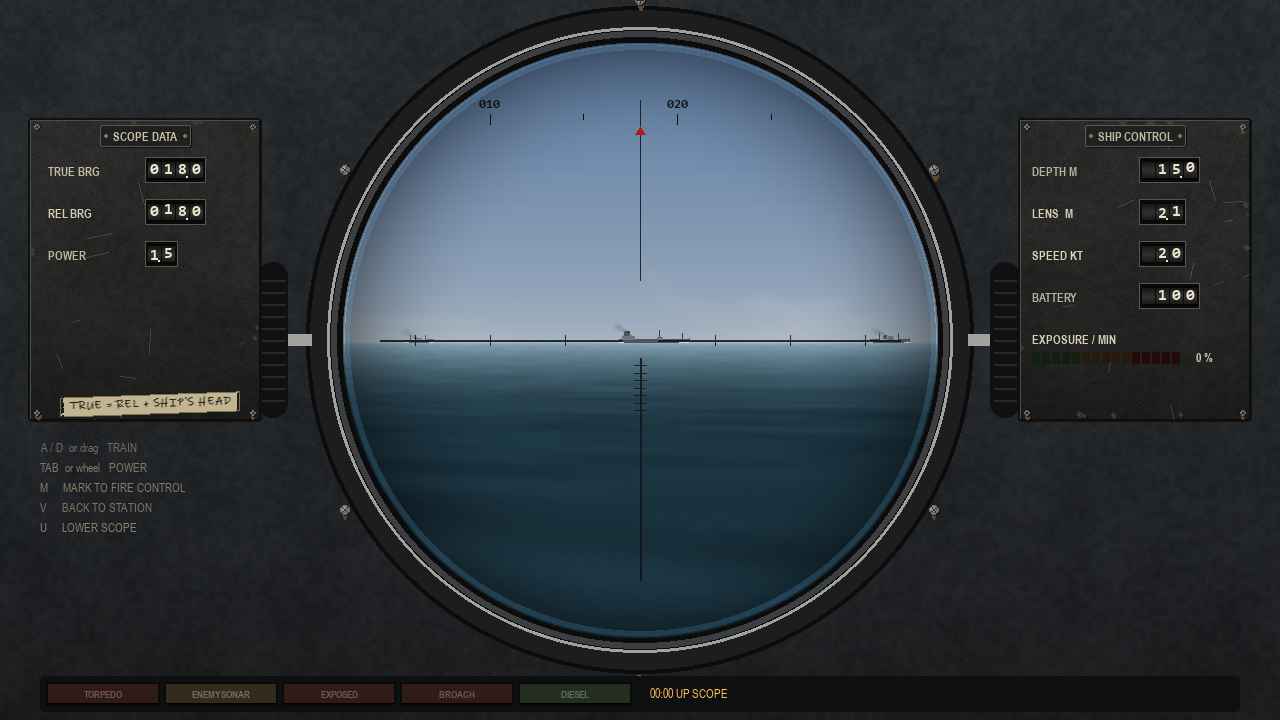
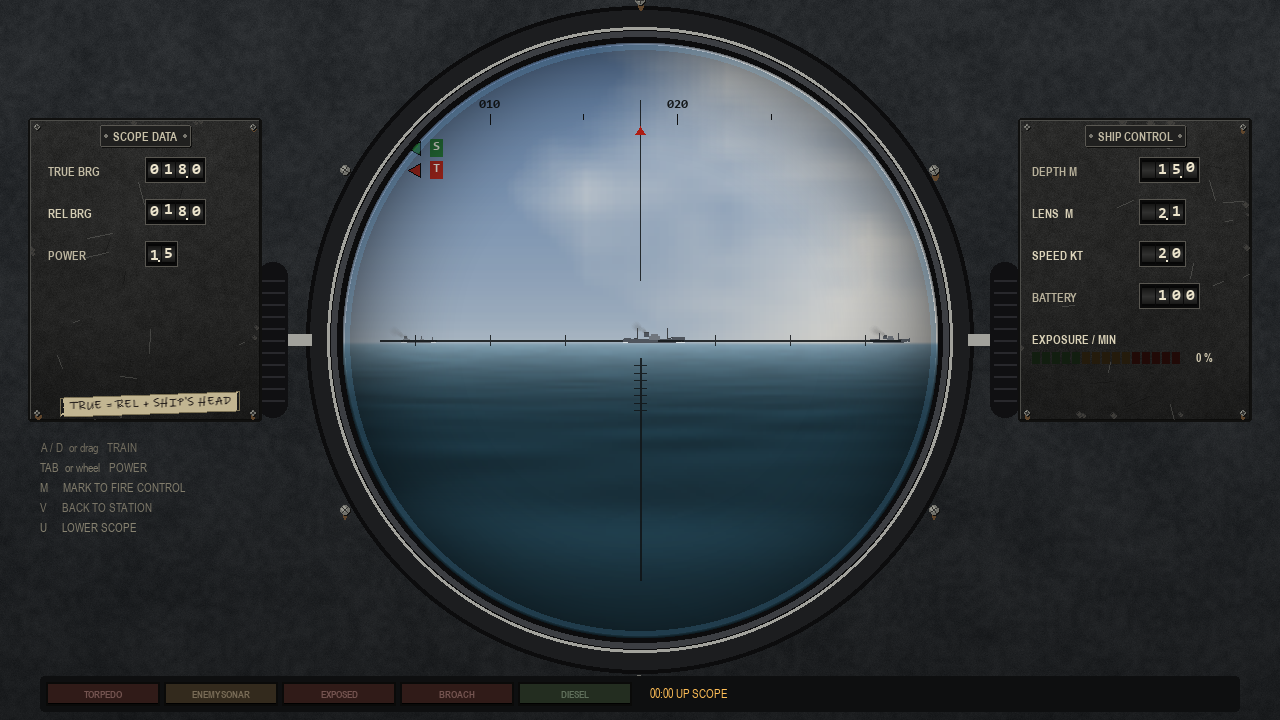
chore: release 0.2.2
README and screenshots for true-stabilised bearings, LOCK and track, the
waterfall time scale and the geometry core; the tabletop replay plan
(docs/plans/tabletop-replay.md) and issue draft 22 rewritten to match; draft
18 closed by the waterfall time scale. The SIG strength bar moves under the
text so the new < / > guide can't overlap it.

Changed region(s): [[0.4062, 0.0611, 0.75, 0.4889], [0.4688, 0.4583, 0.5312, 0.4889], [0.3125, 0.1833, 0.3438, 0.2444]]

diff --git a/docs/shots.py b/docs/shots.py
@@ -80,7 +80,8 @@ def hero():
     run(con, 10)
     merchants = [t for t in con.world.targets if t.kind == "MERCHANT"]
     target = min(merchants, key=con.world.player.range_to)
-    run(con, 70, track=target)
+    con.waterfall.row_interval = 3.0  # F8's slow scale: ten minutes of history shows the bearing drift
+    run(con, 600, track=target)
     con.mark()
     con.ping()
     run(con, 14, track=target)
@@ -90,6 +91,8 @@ def hero():
     con.tdc.set("CRS", target.heading)
     con.tdc.set("SPR", 4.0)
     con.fire()
+    if con.wire_sel is None:  # a long shot asks for a second press
+        con.fire()
     con.wire_sel.wire_aim = (target.x, target.y)
     run(con, 40, st, track=target)
     save("station")

diff --git a/workstation.py b/workstation.py
@@ -540,7 +540,7 @@ class Workstation:
         for i, (k, v, color) in enumerate(rows):
             crt.text(s, k, (hx, hy + i * 19), DIM, small=True)
             crt.text(s, v, (hx + 52, hy + i * 19 - 1), color)
-        crt.rect(s, (hx + 104, hy + 24, int(min(con.signal, 1.0) * 64), 5))
+        crt.rect(s, (hx + 52, hy + 35, int(min(con.signal, 1.0) * 96), 2))  # signal strength, under SIG
 
         text, left = con.banner
         if left > 0 and int(left * 4) % 2 == 0:  # cadet: clear visual ping warning

diff --git a/version.py b/version.py
@@ -1,1 +1,1 @@
-__version__ = "0.2.1"
+__version__ = "0.2.2"

diff --git a/docs/plans/tabletop-replay.md b/docs/plans/tabletop-replay.md
@@ -1,0 +1,146 @@
+# Plan: 2.5D tabletop replay
+
+After every patrol the player can open a **plotting-table replay**: the whole engagement in true 3D, seen at an
+angle across a wardroom chart table, with the ships as painted models on the paper, the submarines hanging
+below on depth stalks, and the thermocline as a smoked-glass sheet. It shows the truth they couldn't see while
+playing.
+
+## Decisions (from the Q&A)
+
+| Question | Decision |
+|---|---|
+| Style | **Plotting table**: paper chart, wooden rails, painted models, a smoked-glass layer. In keeping with the vintage station. |
+| Camera | **Free orbit** (drag), zoom (wheel), pan (right-drag), plus one-key presets: plan, side (depth profile), oblique, follow own boat |
+| Layers | **Truth in 3D**: every hull's true track with depth stalks, torpedo runs and wire paths, charge patterns sinking and bursting, noisemakers, sinkings. ("Your picture vs truth", detection lines and envelopes are left for later.) |
+| Where | **Every patrol** (campaign, endless, training), recorded and saved. Opened from the debrief, the game-over screen and the career log. The last 10 are kept on disk. |
+
+## What it rests on
+
+The geometry core (`geometry.py`) and its cross-check suite (`test_geometry.py`) already guarantee that the world
+state is consistent in 3D. The recorder stores **world truth** (`sim.py` state), never operator estimates, so the
+replay is exactly as accurate as the simulation.
+
+## Architecture
+
+```mermaid
+flowchart LR
+    W["WorldSimulation<br/>(truth)"] -- every 1 s of sim time --> R["replay.Recorder<br/>tracks + events"]
+    R -- patrol ends --> F[("~/.silent_solution/replays/<br/>YYYYMMDD-HHMM-mode.json.gz<br/>(last 10)")]
+    F --> L["replay.load()"] --> V["graphics/tabletop.py<br/>TabletopRenderer"]
+    V --> P["REPLAY page<br/>camera · timeline · labels"]
+    D["Debrief / game over / career log"] -- "[A] TABLETOP" --> P
+```
+
+### 1. Recorder (`replay.py`, world side, read-only)
+- Every body gets a stable integer `uid` when it enters the world (`WorldSimulation` hands them out), so tracks
+  survive list removal and reordering. `id()` is not stable across a save and load.
+- Every **1.0 s of sim time** (a tuning value), sample each live body: `t, uid, x, y, z, heading, speed`. Torpedoes
+  also record `wired`, `wire_aim` and `state`.
+- On first sight, record each body's **static description**: `kind`, class (merchant / tanker / escort / sub /
+  own / torpedo / decoy / charge), `hostile`, `tube`, name (once ship names exist), spawn time.
+- **Events**, stamped with sim time and the bodies involved: launch, hit, sinking (`sunk_at`), charge pattern
+  dropped, charge detonation (position and depth), noisemaker dropped, wire cut, own boat damaged, own boat lost,
+  wave start and clear. These give the timeline its ticks.
+- **Hooks:** `Console.update` calls `recorder.sample(world)` after `world.step`, and the recorder also reads
+  `frame_events`. Recording never changes the world, and a test enforces that.
+- **Budget:** a 60-minute patrol with about 25 bodies is roughly 90k samples. Positions rounded to 0.1 m and
+  headings to 0.1° come to about 1.5 MB as gzipped JSON. Long endless runs are capped by thinning samples older
+  than 30 min to 4 s.
+
+### 2. File format and storage
+- `~/.silent_solution/replays/<stamp>-<mode>.json.gz`:
+  - `version`, `meta` (mode, patrol name, result, GRT, duration, seed, game version, layer depth, sea state over time)
+  - `bodies` (static descriptions)
+  - `tracks` (per uid: column arrays `t, x, y, z, h, v`)
+  - `events`
+- Only the 10 newest are kept. The career log entry stores the replay's filename, so the log links to it.
+- Corrupt or old-version files are listed but greyed out with "can't play"; the game never crashes on them.
+
+### 3. Tabletop renderer (`graphics/tabletop.py`)
+- **Projection:** a perspective camera orbiting a look-at point.
+  - Parameters: yaw, pitch (10–90°), distance and a field of view.
+  - World to camera to screen is computed with NumPy for all vertices at once, ordered back to front with the
+    painter's algorithm (no z-buffer needed for models this simple).
+- **Depth exaggeration:** the sea is about 10 km across and the action is 0–300 m deep, so true scale makes depth
+  invisible. Vertical scale defaults to ×10, adjustable (×1 to ×25), and labelled on the depth scale so it's
+  never misleading.
+- **The table:**
+  - Wooden rails around the chart area. Chart paper with a 1 nm grid, a compass rose and range rings around own
+    boat's position at the selected time.
+  - The surface is the paper plane, z = 0.
+  - The thermocline is a translucent smoked-glass sheet at the patrol's layer depth (exaggerated), with a depth
+    scale (0 / 100 / 200 / 300 m) on the rail.
+- **Models:** low-poly extruded prisms by class, painted in the art kit's palette:
+  - merchant (grey hull, buff upperworks), tanker (long, low, aft bridge), escort (dark grey, raked)
+  - own boat (blue-grey) and enemy sub (red-brown), both cigar hulls with a sail
+  - torpedo (brass dart), charge (black drum), noisemaker (white puff)
+
+  Submerged models get a **depth stalk**: a thin line from the paper straight down, with a shadow dot on the paper.
+- **Tracks:** the true track of every body as a fading polyline (the last N minutes, or the whole patrol). Submerged
+  tracks are drawn at depth and their shadows on the paper. Torpedo runs are dotted at run depth, and wire paths are
+  a thin line back to the launch point while wired.
+- **Effects:**
+  - charge patterns sink as falling drums, with a burst ring at detonation depth
+  - sinkings tilt and settle the model below the paper over `WRECK_TIME`
+  - hits flash a ring on the paper
+- **Hover labels:** class, name, depth, speed, course and AI state at that moment, drawn as a tape label in the
+  station's style.
+
+### 4. REPLAY page (`main.py` state + `workstation.py` drawing)
+- Full screen, framed by the station's bezel with a brass placard "AFTER-ACTION PLOT".
+- **Camera:**
+
+  | Input | Action |
+  |---|---|
+  | drag | orbit |
+  | wheel | zoom |
+  | right-drag | pan |
+  | <kbd>1</kbd> | plan (top-down, north up) |
+  | <kbd>2</kbd> | side (depth profile along the own boat's track) |
+  | <kbd>3</kbd> | oblique |
+  | <kbd>4</kbd> | follow own boat |
+  | <kbd>0</kbd> | reset |
+  | <kbd>[</kbd> <kbd>]</kbd> | depth exaggeration |
+
+- **Time:**
+
+  | Input | Action |
+  |---|---|
+  | <kbd>Space</kbd> | play / pause |
+  | <kbd>←</kbd> <kbd>→</kbd> | step 10 s |
+  | <kbd>Shift</kbd>+<kbd>←</kbd> <kbd>→</kbd> | jump to the previous / next event |
+  | <kbd>+</kbd> <kbd>−</kbd> | speed (1× / 4× / 16× / 60×) |
+  | click or drag the timeline | scrub |
+
+  The timeline shows event ticks with icons: launch, hit, sinking, pattern, damage.
+- Playback interpolates linearly between samples (headings by shortest arc), so motion is smooth at any speed.
+- **Entry points:** **[A] TABLETOP** on the debrief and endless game-over screens, a replay icon on each career log
+  line, and at the end of training. <kbd>Esc</kbd> returns to where it was opened from.
+
+## Phases (each a `feature/*` branch, with tests and screenshots)
+
+1. **Recorder and storage:** uids, sampling, events, gzip save/load, retention, career-log link.
+   *Tests:* a round trip reproduces positions within rounding; the recorder doesn't change the world (world hash
+   with and without it); thinning; corrupt files are handled.
+2. **Projection and table:** camera maths and presets, chart, rails, grid, layer sheet, depth scale.
+   *Tests:* plan view maps north to up and east to right; side view maps depth downward at the chosen exaggeration;
+   orbit keeps the look-at point centred.
+3. **Models, tracks and effects:** class models, stalks and shadows, tracks, torpedo and wire paths, charges,
+   sinkings.
+   *Tests:* a headless render of each preset with no exceptions; frame time under 16 ms with 30 bodies.
+4. **REPLAY page and timeline:** controls, scrubbing, event jumps, hover labels, entry points.
+   *Tests:* scripted UI drive (the same approach as the main-loop smoke test).
+5. **Polish:**
+   - README gallery shot and GIF
+   - a training mention
+   - a performance pass
+
+## Left for later (chosen against for now)
+
+- **Your picture against the truth:** a TDC ghost, sonar bearing lines, marks and echo fixes.
+- **Who detected whom:** ping rings, held and spotted lines, first-detection markers.
+- **Sound and sight envelopes:** lookout circles, sonar reach, the layer's shadow.
+
+The recorder already captures enough to add these later, except the operator layers, which would need the
+console's TDC, dial and marks recorded alongside. Leaving room in the file format for an `operator` section costs
+nothing now.

diff --git a/README.md b/README.md
@@ -12,7 +12,7 @@ but while the mast is up, the sea can see you too.
 [![pygame-ce](https://img.shields.io/badge/pygame--ce-2.5-6aa84f)](https://pyga.me/)
 [![NumPy](https://img.shields.io/badge/NumPy-procedural-013243?logo=numpy&logoColor=white)](https://numpy.org/)
 [![uv](https://img.shields.io/badge/run%20with-uv-DE5FE9)](https://docs.astral.sh/uv/)
-![Version](https://img.shields.io/badge/version-0.2.1-ffbe56)
+![Version](https://img.shields.io/badge/version-0.2.2-ffbe56)
 ![Asset files](https://img.shields.io/badge/asset%20files-0-84d670)
 ![Platform](https://img.shields.io/badge/build-Windows%20.exe-0078D6?logo=windows&logoColor=white)
 [![Licence: MIT](https://img.shields.io/badge/licence-MIT-blue)](LICENSE)
@@ -88,7 +88,7 @@ The executable needs no Python install. If it ever crashes, the traceback is app
 |:-:|---|---|
 | 1 | **Tactical PPI** | Own ship at the centre. Echo fixes, enemy ping lines, your torpedoes, and the wire's aim point. Click a wired fish, then click the water to steer it. |
 | 2 | **Fire control (TDC)** | Target bearing, range, speed and course; seeker arm distance, run depth and salvo spread. Mechanical drum counters show the gyro angle and the run. The lamp lights when there is a valid solution. |
-| 3 | **Passive waterfall** | Bearing across, time down. Contacts are vertical traces. The red line is your hydrophone dial; the bright ticks show where the TDC thinks the target is. |
+| 3 | **Passive waterfall** | Bearing across, time down, north-stabilised by default (<kbd>F7</kbd> for ship's head), 1 s a line (<kbd>F8</kbd> for 0.1 / 1 / 3 s). A contact's trace slants and curves with its real bearing drift and holds still through your own turns. The red line is your hydrophone dial; the bright ticks show where the TDC thinks the target is. |
 | 4 | **Acoustic profile** | The spectrum of whatever the dial hears, matched live against the signature library: merchant, warship, submarine, torpedo, noisemaker. |
 | 5 | **Sonar log** | Timestamped contacts, echoes, launches and detonations. |
 | 6 | **Readouts** | Dial bearing, signal strength, classification confidence, the layer, the sea state, and the gyro solution. |
@@ -130,8 +130,9 @@ flowchart LR
     H -.- h[Go deep, under the layer<br/>slow and quiet]
 ```
 
-1. **Listen.** A contact is a bright vertical trace. Train the dial onto it until `SIG` reads `LOCK`. Hold it
-   there and the bearing logs itself to the TMA plot every four seconds.
+1. **Listen.** A contact is a bright trace, slanting as its bearing drifts. Train the dial by the `SIG < 3.2`
+   guide until it reads `LOCK` (on the trace, within 1.5° on Commander); from then on the dial **tracks** it on
+   its own, and the bearing logs to the TMA plot every four seconds.
 2. **Classify.** The profiler compares the spectrum with its library. Merchants show low shaft lines. Warships
    whine high. A submarine is one faint line. A torpedo is a sharp spike. A noisemaker is a flat wall.
 3. **Mark and range.** <kbd>M</kbd> sends the bearing to the TDC. <kbd>Space</kbd> pings, and the echo delay gives
@@ -208,6 +209,7 @@ colour-blind lamps.
 | <kbd>[</kbd> <kbd>]</kbd> · <kbd>\\</kbd> · <kbd>L</kbd> | nudge wired fish · next fish · cut wire | <kbd>U</kbd> · <kbd>K</kbd> | raise scope · raise snorkel |
 | <kbd>N</kbd> | noisemaker | <kbd>V</kbd> · <kbd>Tab</kbd> | look through scope · power 1.5x / 6x |
 | <kbd>T</kbd> | scope range 5k / 10k / 20k yd | <kbd>F2</kbd> · <kbd>F5</kbd> | TMA plot · damage board |
+| <kbd>F7</kbd> · <kbd>F8</kbd> | true / ship's-head bearings · waterfall time scale | <kbd>O</kbd> | swing the periscope onto the sonar bearing |
 | <kbd>F4</kbd> | auto-solve (Cadet and Training) | <kbd>P</kbd> · <kbd>F1</kbd> · <kbd>Esc</kbd> | pause · key card · quit / back |
 </details>
 
@@ -223,7 +225,10 @@ Saved to `~/.silent_solution/settings.json`. If a key you choose is already in u
 ## 🔬 Under the hood
 
 About 6,000 lines of Python in two halves that never mix: a **world** that holds the truth, and an **operator** side
-that only ever sees it through sensors.
+that only ever sees it through sensors. Every bearing, range and angle between two bodies (true and relative
+bearing, horizontal and slant range, depression angle, bearing rate, range rate, target angle) comes from one 3D
+**geometry core**, `geometry.py`, and `test_geometry.py` cross-checks every sensor and display against it on
+random 3D scenarios through hard turns.
 
 ```mermaid
 flowchart TB
@@ -288,7 +293,7 @@ $$
 
 | Sensor | Model |
 |---|---|
-| **Passive sonar** | Relative bearings with 0.8° noise, quantised to 0.5°. Level falls off as $`160\,N\,T\,\min(1, 3000/r)`$, with flicker; hostile fish sound louder. The hydrophone dial has a gain cone, so contacts near the dial dominate. |
+| **Passive sonar** | Bearings with 0.8° noise, quantised to 0.5°. Level falls off as $`160\,N\,T\,\min(1, 3000/r)`$ along the 3D slant range, with flicker; hostile fish sound louder. The hydrophone dial has a gain cone, but `LOCK` needs the dial *on* the trace (3° / 1.5° / 1° by difficulty), after which a tracker servo holds it there. |
 | **Active sonar** | Echoes arrive after $`2d/c`$ with $`c = 1500`$ m/s and 1% timing jitter, out to 12 km. There is no echo across the layer, only reverb. Every ping is heard by every AI in earshot. |
 | **Periscope optics** | Sightings, wakes and bursts within the horizon and the visibility. Silhouette class from recognition-manual dimensions; stadimeter range with error. |
 | **Signature library** | The spectral templates for merchant, warship, submarine, torpedo and noisemaker are matched live against the dial's spectrum to give a classification and a confidence. |
@@ -418,6 +423,7 @@ uv run --with pyinstaller build.py        # dist/SilentSolution.exe
 | Suite | Covers |
 |---|---|
 | `test_sim.py` | engagements, escort hunts and counter-fire, masts, spotting, optics, convoys and scatter, TMA auto-solve, damage control, spreads and wire guidance, campaign waves |
+| `test_geometry.py` | the positional backbone: sonar, echoes, periscope, eyepiece image, TDC position keeping and TMA all agree with the geometry core in 3D through a turn; LOCK and scope-to-sonar put the ship in the eyepiece; bearing stabilisation and the waterfall's true/relative frames |
 | `test_tutorial.py` | a scripted trainee plays the whole training patrol on three seeds, then each chapter on its own, then a run that skips every drill |
 | `test_periscope.py` | the eyepiece renderer: ships on the horizon, nothing astern, a wave over the lens, frame time |
 | `settings.py` · `audio.py` · `campaign.py` | self-checks: save round trips, key rebinding, the pan law, reverb loops, objectives, refits and patrol outcomes |
@@ -428,6 +434,7 @@ uv run --with pyinstaller build.py        # dist/SilentSolution.exe
 ```text
 SilentSolution/
 ├── main.py              game loop, screen states, crash log
+├── geometry.py          the 3D positional backbone: bearings, ranges, angles, rates
 ├── sim.py               WORLD: vessels, torpedoes, ocean and weather, masts, damage, world step
 ├── ai.py                WORLD: merchants, escorts, submarines, convoys, wave director
 ├── tuning.py            every balance knob and difficulty preset in one place
@@ -461,7 +468,7 @@ SilentSolution/
 
 <div align="center">
 
-**Silent Solution** · v0.2.1 · by Jacob Frusher · built with [pygame-ce](https://pyga.me/) and [NumPy](https://numpy.org/) ·
+**Silent Solution** · v0.2.2 · by Jacob Frusher · built with [pygame-ce](https://pyga.me/) and [NumPy](https://numpy.org/) ·
 [MIT licence](LICENSE) ([third-party notices](THIRD-PARTY-NOTICES.txt))
 
 <sub>Run silent, run deep.</sub>

diff --git a/docs/issues/22-after-action-replay.md b/docs/issues/22-after-action-replay.md
@@ -1,29 +1,48 @@
 ---
-title: After-action replay plot at the debrief
-labels: feature, area:ui, area:campaign, priority:medium
+title: 2.5D tabletop replay of every patrol
+labels: feature, area:ui, area:campaign, area:sim, priority:high
 milestone: v0.3 Polish & UX
 ---
 ## Motivation
 
-The game is played blind: the player never sees the truth. The best teacher is seeing afterwards what actually
-happened: where the escort really was when it pinged, why the spread missed, how close the pattern came. Today
-the debrief shows totals only.
+The game is played blind: the player never sees the truth. The best teacher is seeing afterwards what really
+happened, in three dimensions: where the escort was when it pinged, how deep the sub really was, why the spread
+missed, how close the pattern came.
 
-## Proposal
+## Decided
 
-- **Record:** while a patrol runs, sample the truth every ~2 s: own track and depth, every contact's track,
-  kind and AI state, torpedo runs (and wire aims), charge patterns, pings, sightings and hits. Keep it compact; a
-  60-minute patrol at 2 s is about 1,800 frames.
-- **Replay page** on the CRT from the debrief (**[A] AFTER ACTION**): a top-down vector plot like the tactical PPI
-  but in truth coordinates. A time scrubber (← →, drag), play/pause at 10×/60×, and event markers on the timeline
-  (pings, launches, hits, patterns).
-- **Overlays:** the player's TDC estimate against the truth for the target they shot at, and the escort datum
-  (where the escort thought you were).
-- Optionally export the plot as a PNG next to the career file.
+- **Plotting-table style:** a chart table at an angle, painted models on the paper, submarines on depth stalks
+  below it, the thermocline as a smoked-glass sheet.
+- **Camera:** free orbit (drag), zoom (wheel), pan (right-drag), and presets for plan, side (depth profile),
+  oblique and follow-own-boat.
+- **Layers:** truth in 3D. Every hull's track with depth, torpedo runs and wire paths, charge patterns sinking and
+  bursting, noisemakers, sinkings.
+- **Recorded for every patrol** (campaign, endless, training), saved, with the last 10 kept. Opened from the
+  debrief, the game-over screen and the career log.
+
+## Plan
+
+The full design is in [`docs/plans/tabletop-replay.md`](../plans/tabletop-replay.md). It covers:
+- the recorder (stable body uids, 1 s sampling and events)
+- the gzip JSON file format and retention
+- the perspective tabletop renderer, with depth exaggeration and a depth scale
+- models, tracks and effects
+- the REPLAY page with its camera and timeline
+- five phases, each with its own tests
 
 ## Acceptance criteria
 
-- [ ] Every campaign debrief and endless game-over can open the replay.
-- [ ] Scrubbing is smooth (pre-built polylines, no re-simulation).
-- [ ] Memory stays bounded for long endless runs (ring buffer, or downsample old history).
-- [ ] Training chapter 4 offers the replay after the escort exercise.
+- [ ] Every patrol writes a replay file of about 2 MB or less for an hour; the 10 newest are kept, and corrupt files
+      are handled.
+- [ ] The recorder doesn't change the world: a test compares world state with and without recording.
+- [ ] A round trip reproduces recorded positions within rounding.
+- [ ] Plan, side, oblique and follow presets plus free orbit, zoom and pan all work; depth exaggeration is
+      adjustable and labelled.
+- [ ] The timeline scrubs, plays at 1× / 4× / 16× / 60× and jumps between events.
+- [ ] 30 bodies render in under 16 ms.
+- [ ] Entry points: debrief, game over, career log, end of training.
+
+## Depends on
+
+- Built on the 3D geometry core and its cross-check suite (`geometry.py`, `test_geometry.py`, v0.2.2).
+- The seeded RNG ([[20]]) isn't required: the replay stores truth, it doesn't re-simulate.

diff --git a/docs/issues/INDEX.md b/docs/issues/INDEX.md
@@ -47,11 +47,11 @@ Once the issues exist, this folder can be deleted.
 |:-:|---|---|---|---|
 | 16 | [Pause menu: resume, settings, quit to title, quit game](16-pause-menu.md) | feature | high | ui, settings |
 | 17 | [Objective tracker and a "return to base" cue for campaign patrols](17-objective-tracker.md) | feature | medium | campaign, ui |
-| 18 | [Waterfall time scale: only ~21 s of history is too short to see bearing drift](18-waterfall-time-scale.md) | enhancement | medium | sensors, ui |
+| 18 | ✅ [Waterfall time scale: only ~21 s of history is too short to see bearing drift](18-waterfall-time-scale.md) | enhancement | medium | sensors, ui |
 | 19 | [Damage alarm lamp and audible alarm when systems are knocked out](19-damage-alarm.md) 🟢 | enhancement | low | damage, ui |
 | 20 | [Seeded per-world RNG instead of the global random module](20-seeded-world-rng.md) | tech-debt | medium | sim |
 | 21 | [Mid-patrol save and load (campaign and endless)](21-mid-patrol-save-load.md) | feature | medium | sim, campaign |
-| 22 | [After-action replay plot at the debrief](22-after-action-replay.md) | feature | medium | ui, campaign |
+| 22 | [2.5D tabletop replay of every patrol](22-after-action-replay.md) | feature | high | ui, campaign, sim |
 | 23 | [Achievements and medals](23-achievements-medals.md) | feature | low | campaign |
 | 24 | [Hover tooltips on every control](24-hover-tooltips.md) | feature | low | ui |
 | 25 | [Localisation: move player-facing strings into a translatable table](25-localisation.md) | feature | low | ui |

diff --git a/docs/issues/18-waterfall-time-scale.md b/docs/issues/18-waterfall-time-scale.md
@@ -2,6 +2,7 @@
 title: 'Waterfall time scale: only ~21 s of history is too short to see bearing drift'
 labels: enhancement, area:sensors, area:ui, priority:medium
 milestone: v0.3 Polish & UX
+fixed_in: 6c93032
 ---
 ## Motivation
 
